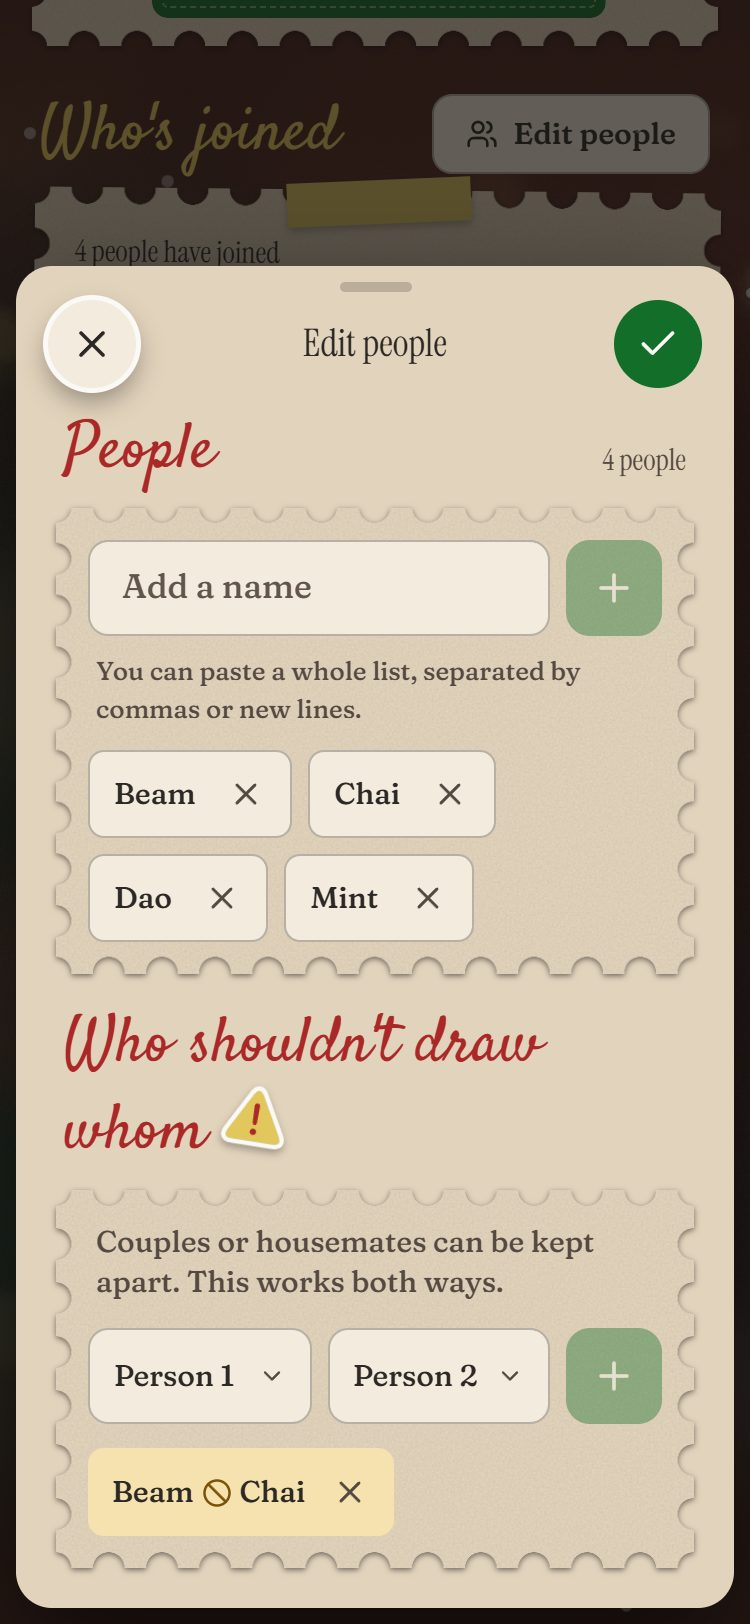
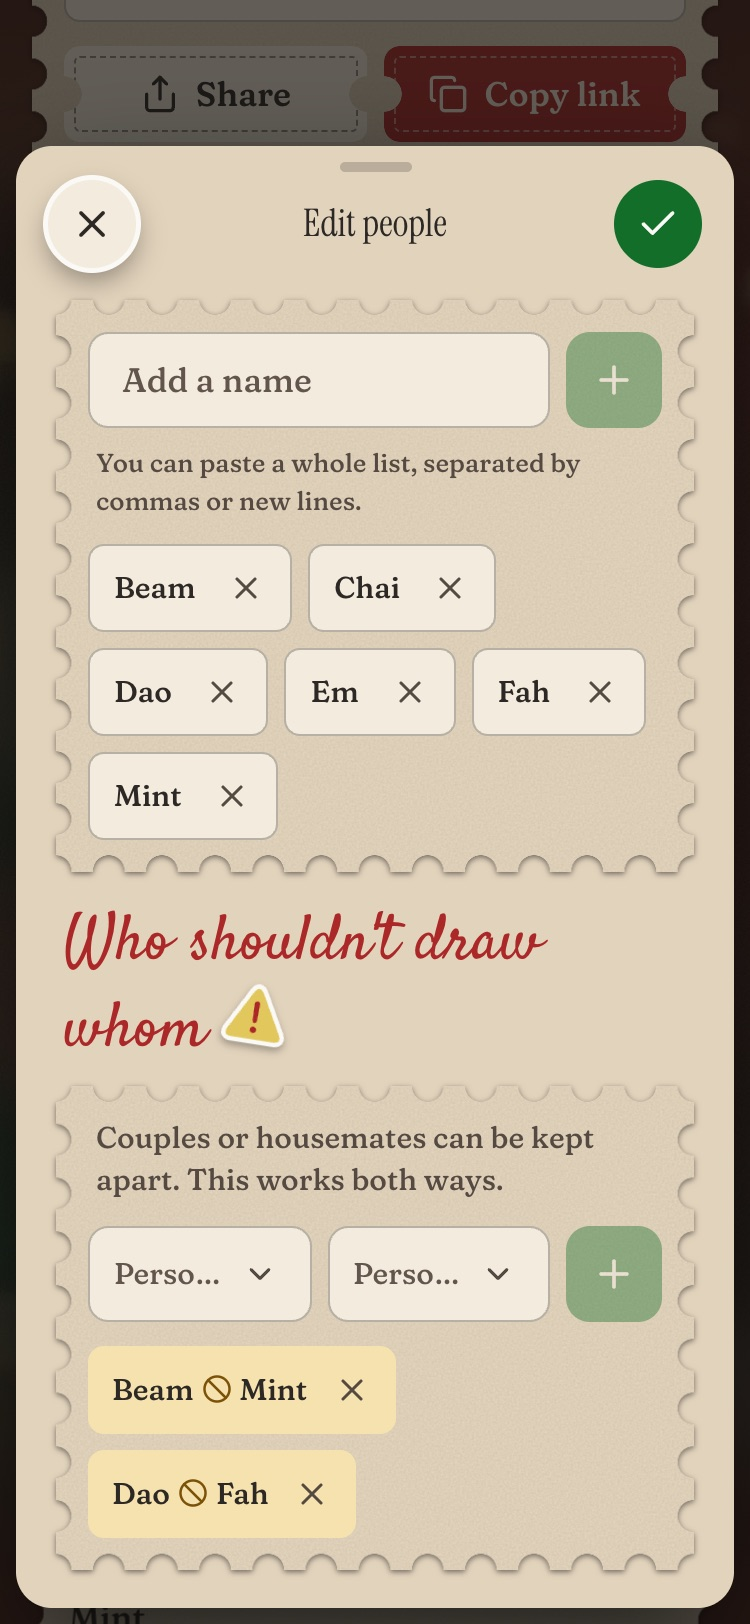
README: names A to Z in Edit people and the picker, the gift unwrapped once, no reset count

diff --git a/README.md b/README.md
@@ -18,10 +18,11 @@ Run a gift exchange from one link. Create a group, share the link, and everyone 
 <p>
   <img src="docs/screenshots/invite.jpg" alt="Organiser page with the invite link" width="240">
   <img src="docs/screenshots/lobby.jpg" alt="Organiser's list of who has joined, with the Draw names button" width="240">
-  <img src="docs/screenshots/edit-people.jpg" alt="Edit people sheet with names and exclusions" width="240">
+  <img src="docs/screenshots/edit-people.jpg" alt="Edit people sheet: names A to Z, and two pairs kept apart, also A to Z" width="240">
 </p>
 <p>
   <img src="docs/screenshots/link-card.jpg" alt="The invite card a chat app shows for a group's link: the group name, budget, date and how many have joined" width="492">
+  <img src="docs/screenshots/pick-person.jpg" alt="Picking Person 1 for a pair kept apart, from everyone's names A to Z" width="240">
 </p>
 <p>
   <img src="docs/screenshots/unwrap.jpg" alt="A wrapped gift waiting to be tapped" width="240">
@@ -42,7 +43,7 @@ The screenshots use a demo group with made-up names.
 - **One invite link** for the whole group, with Copy, Share (on phones) and a QR code. You never type a list of names.
 - **An invite card:** send the link in LINE, Messenger or WhatsApp and it shows a card with the group name, budget, date and how many have joined.
 - **Draw when you're ready:** see who has joined, then draw once at least 3 people are in.
-- **Exclusions:** keep couples or housemates from drawing each other. Pairs you've already kept apart are grayed out in the pickers.
+- **Exclusions:** keep couples or housemates from drawing each other. Names in the pickers and the pairs you've added are listed A to Z, and pairs you've already kept apart are grayed out.
 - **Budget, party date and a note** for everyone: a big budget field with shortcuts, the site's own calendar, and a live countdown.
 - **Change the group later:** add or remove people and everyone gets a new name. Renaming someone keeps the draw.
 - **See who's ready:** who has joined and who has opened their name, updating by itself every few seconds.
@@ -81,7 +82,7 @@ The screenshots use a demo group with made-up names.
 
 **What it can't prevent:**
 - Anyone with the link can join before the draw, so organisers should check the list and remove anyone unexpected.
-- An organiser could reset someone's PIN and log in as them.
+- An organiser could reset someone's PIN and log in as them, and nobody else would see that it happened.
 - Someone holding both the database and `SEAL_SECRET` could decrypt the results on purpose.
 - With exactly 3 people, your own result reveals the whole circle, so the site warns about it when people are added by hand.
 
